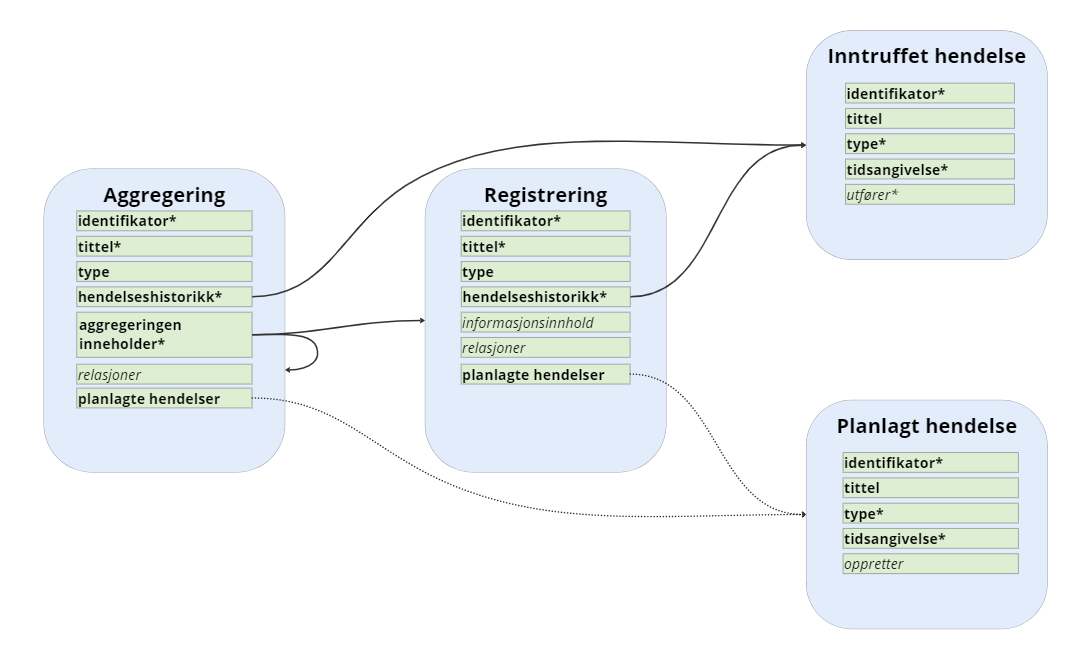
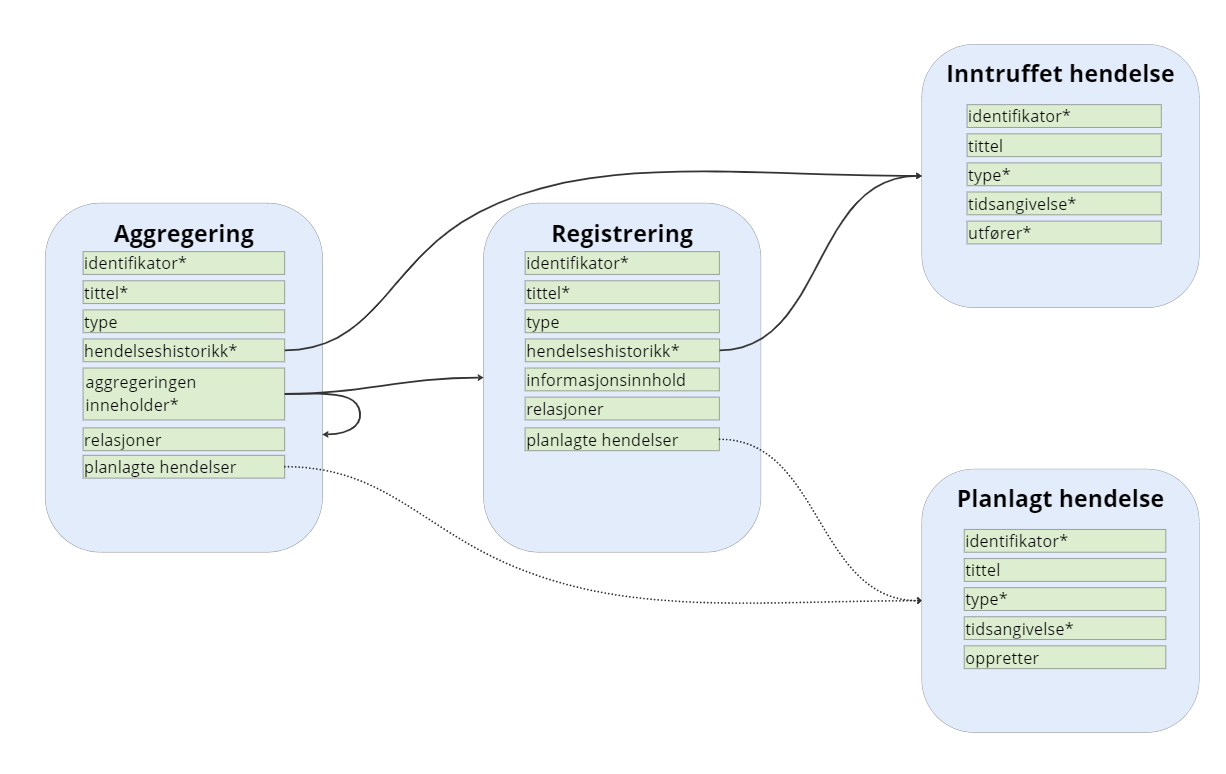
Ny illustrasjon av egenskaper i minimumsmodell

diff --git a/standarder/infomodell-mvp.md b/standarder/infomodell-mvp.md
@@ -140,17 +140,9 @@ For både registreringer og aggregeringer har vi støtteklasser for hendelser og
 **Inntruffet hendelse** er del av endringshistorikk på den enkelte registrering eller aggregering. Det er en hendelse eller handling som har skjedd med registreringen eller aggregeringen. Eksempel er opprettelse av registrering eller aggregering.  
 **Planlagt hendelse** er en hendelse eller handling som skal skje med den enkelte registrering eller aggregering. Eksempel er kassasjon av registrering eller aggregering.
 
-For hver klasse er det definert hvilke egenskaper det skal finnes metadata for på hvert objekt av klassen:
+For hver klasse er det definert hvilke egenskaper det skal finnes metadata for på hvert objekt av klassen. Obligatoriske egenskaper er markert med asterisk:
 
-![Egenskaper i minimumsmodellen: Egenskaper som ligger på de ulike klassene er utlistet](/standarder/figurer/infomodell-mvp-egenskaper.png)
-
-> #### Lesehjelp
->
-> **Fet:** Gjennomtenkt  
-> _Kursiv:_ Tenking påbegynt  
-> Asterisk (*): Obligatorisk på det enkelte objekt
->
-> NB! Alt fortsatt åpent for diskusjon
+![Egenskaper i minimumsmodellen: Egenskaper som ligger på de ulike klassene er utlistet - samme innhold som i tabellen under](/standarder/figurer/infomodell-mvp-egenskaper.png)
 
 ### Egenskaper
 
